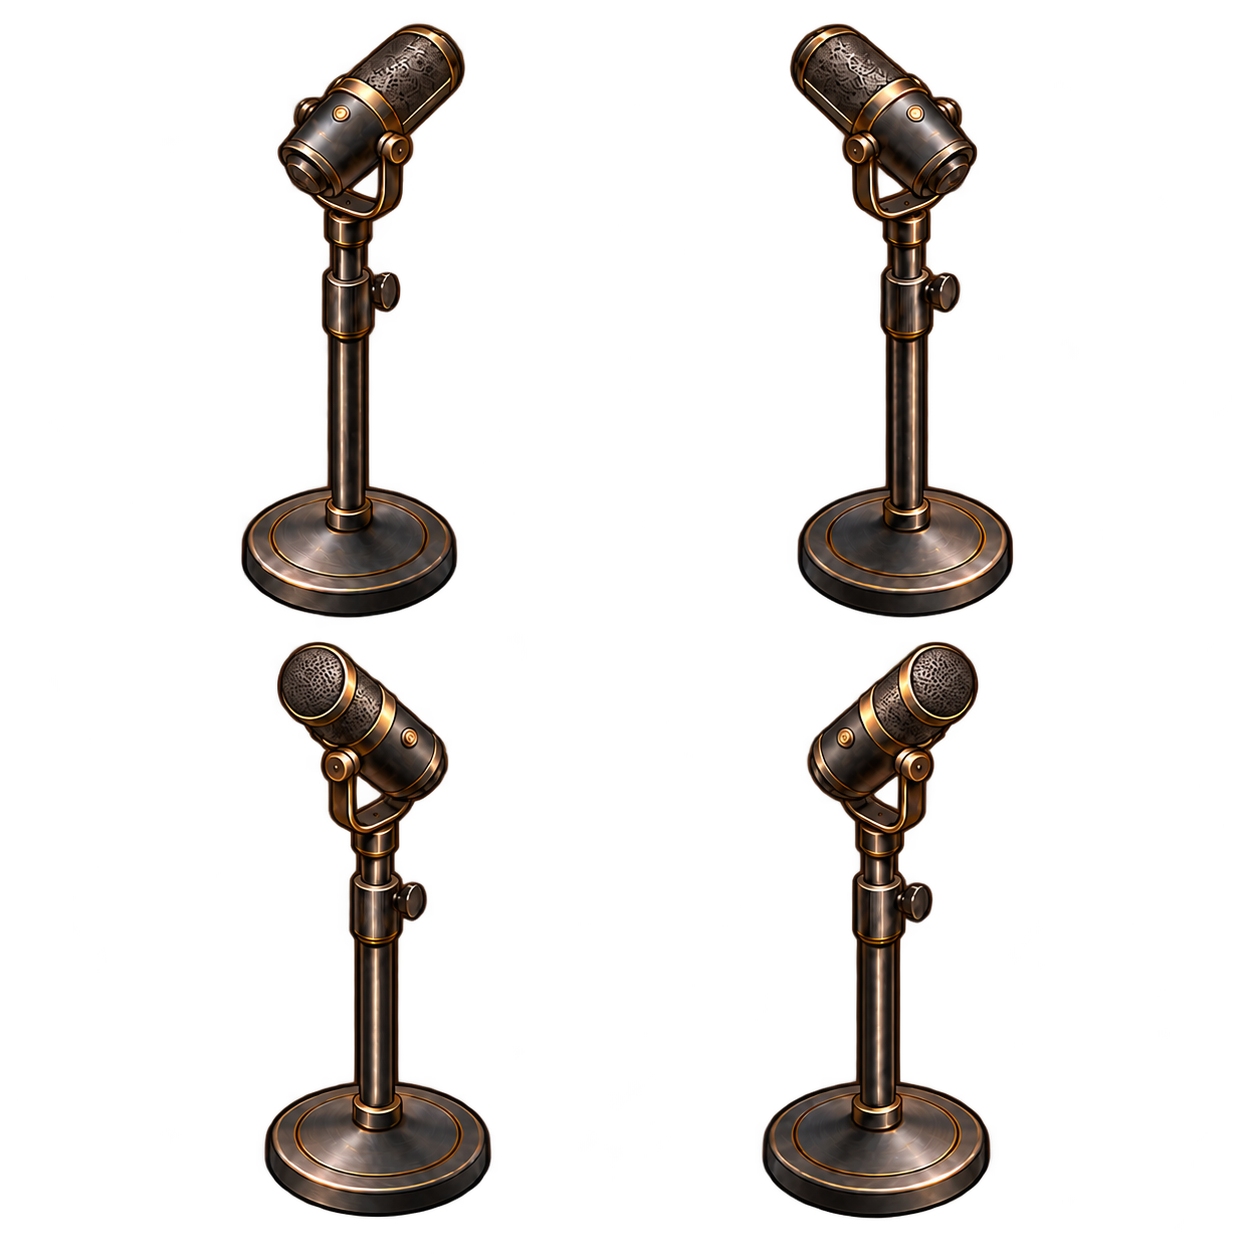
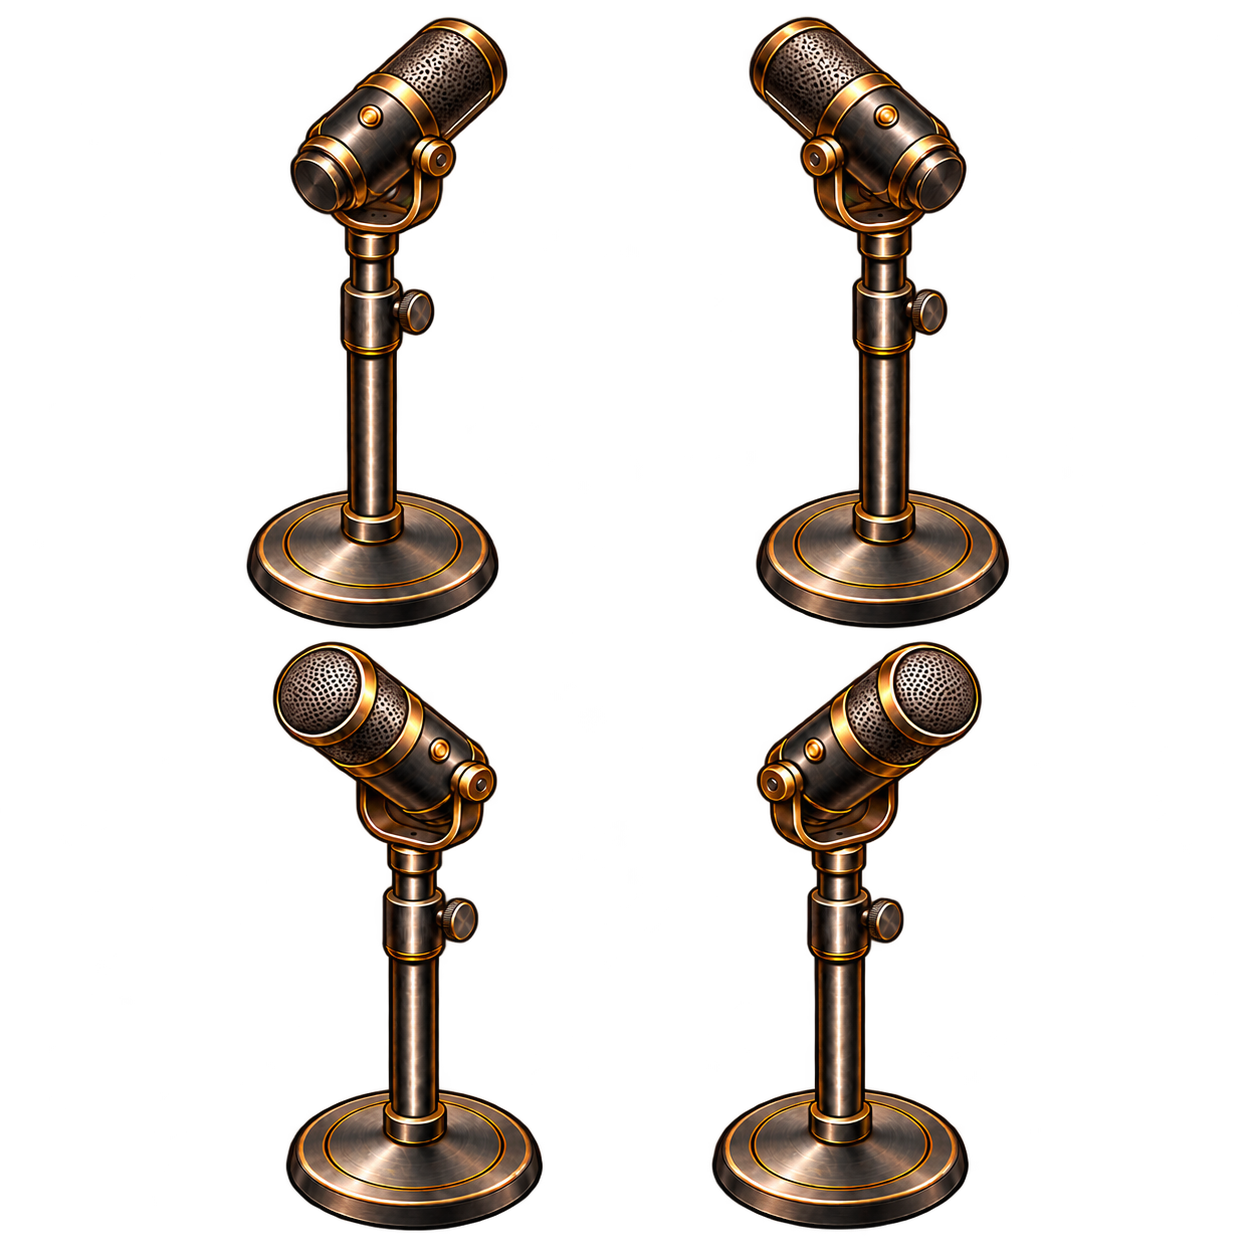
Fix microphone yoke sides to match original support orientations

Changed region(s): [[0.5598, 0.0, 0.8086, 0.9952], [0.1866, 0.0, 0.4354, 0.9952]]

diff --git a/docs/games/ast-home/index.html b/docs/games/ast-home/index.html
@@ -3,4 +3,4 @@
 <body><header><strong>MY HOME <small>우리 집 꾸미기</small></strong><div><span class="ast-balance"><img class="ast-coin" src="assets/optimized/ast-coin-small-v1.webp" alt=""><span id="wallet">잔액 확인 중…</span></span><button id="retrySync" hidden>다시 연결</button><button id="shopButton">＋ 아이템 구매</button></div></header>
 <section class="view-toolbar" aria-label="화면 조작"><div class="zoom-group"><span>화면 크기</span><div id="zoomControls" aria-label="화면 확대"><button id="zoomOut" aria-label="축소" disabled>−</button><button id="zoomReset" aria-label="100%로 초기화">100%</button><button id="zoomIn" aria-label="확대">＋</button></div></div></section><main><button id="enterMansion" hidden aria-label="본관 실내로 입장">↳ ENTER</button><canvas id="game" width="1536" height="1024" aria-label="가구를 선택하고 바닥 셀을 눌러 배치하는 거실"></canvas><p id="status" role="status">가구 이미지를 불러오는 중…</p><div id="actions" hidden><span id="furnitureDetails"></span><button id="move">✥ 이동</button><button id="rotateSelected">↻ 회전</button></div><div id="placement" hidden><button id="rotateDraft">↻ 회전</button><button id="confirm"><span>O 확정</span><span class="confirm-cost"><img class="ast-coin" src="assets/optimized/ast-coin-small-v1.webp" alt="아스트"><span id="confirmCost">0</span></span></button><button id="cancel">X 취소</button></div></main>
 <dialog id="shop"><div class="dialogHeading"><h2>가구 구매</h2><button id="closeShop" aria-label="닫기">✕</button></div><p id="shopNotice">가구를 고른 뒤 바닥 셀에 배치하세요. 확정할 때 아스트가 사용됩니다.</p><div id="catalog"></div><small>구매 확정 시 표시된 아스트가 사용됩니다.</small></dialog>
-<script type="module">if(new URLSearchParams(location.search).get("scene")==="mansion"){import("./mansion.js?v=20261022-mic3")}else{import("./game.js?v=20261020-assets1")}</script></body></html>
+<script type="module">if(new URLSearchParams(location.search).get("scene")==="mansion"){import("./mansion.js?v=20261022-mic4")}else{import("./game.js?v=20261020-assets1")}</script></body></html>

diff --git a/docs/games/ast-home/mansion.js b/docs/games/ast-home/mansion.js
@@ -1,4 +1,4 @@
-import {loadAsset,assetUrl,spriteFrames} from './asset-loader.mjs?v=20261022-mic3';
+import {loadAsset,assetUrl,spriteFrames} from './asset-loader.mjs?v=20261022-mic4';
 import {spriteIndex,sourcePoint,pointInClip,drawRegisteredSprite,registeredSprite,transformPoint,tableSurfaceMatrix} from './sprite-geometry.mjs?v=20261019-whole3';
 import {TEST_KEY,readTestState,mountTestTools} from './test-session.mjs';
 import {request} from './ast-bridge.js?v=20261019-house1';
